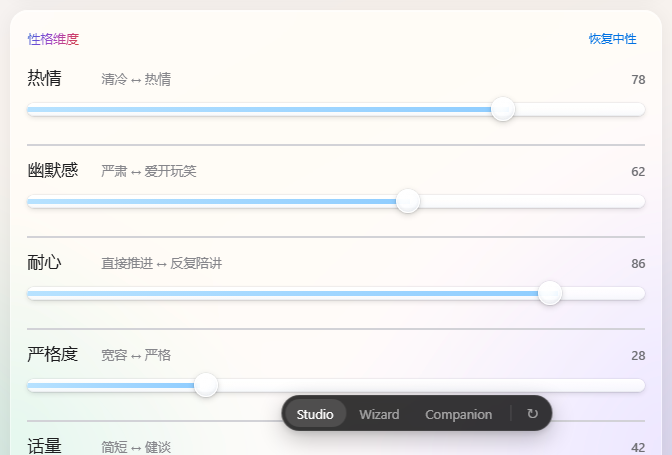
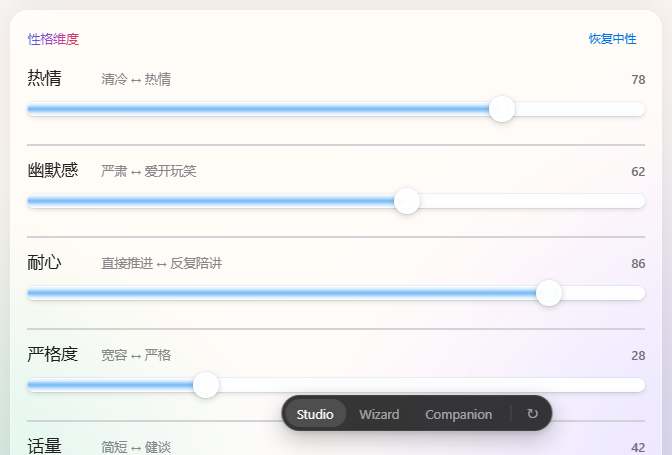
style(proto): 滑条 v3 — 蓝色从管壁向中心渗透，上下对称
v2 的填充是用横向渐变画的，只有左右方向的变化，
所以是一条直板的实色条。v3 换技术：

- 宽度改由 background-size 控制（到 --pct 为止）
- 颜色改走【垂直】渐变：上下边缘淡、中心深、完全对称
- 叠两层：外层光晕(12px,淡) + 内层核心(8px,深)，
  形成从玻璃壁往里渗的效果

胶囊体本身也改成上下对称（#fafcff -> #fff -> #fafcff），
凸起感改由外圈 0.5px 描边 + 下方投影承担，
不再靠内部上亮下暗 —— 否则管体本身就不对称。

拇指改为同心径向高光（circle at 50% 50%）+ 内圈 2px 白环。

知识点进度条同步：16px 胶囊 + 6px 对称渐变细芯。
控制台零错误。

diff --git a/prototypes/Costudy-UI-原型.html b/prototypes/Costudy-UI-原型.html
@@ -1328,6 +1328,126 @@ input[type="range"]:active::-webkit-slider-thumb {
   transition: width var(--dur-modal) var(--ease-out);
 }
 /* ==========================================================
+   滑条 v3：蓝色从管壁向中心渗透，上下对称
+   v2 的问题：填充是横向渐变画出来的，只有左右变化 —— 一条死板的实色条。
+   v3 换成：
+     · 宽度由 background-size 控制（到 --pct 为止）
+     · 颜色走【垂直】渐变：上下边缘淡，中心深，完全对称
+     · 叠两层：外层光晕（淡、宽）+ 内层核心（深、窄），像从玻璃壁往里渗
+   ========================================================== */
+input[type="range"] {
+  height: 34px;
+}
+
+input[type="range"]::-webkit-slider-runnable-track {
+  height: 14px;
+  border-radius: var(--r-full);
+  background-image:
+    /* ① 内层核心：窄，颜色最深，上下对称 */
+    linear-gradient(
+      180deg,
+      rgba(206, 234, 255, 0.9) 0%,
+      rgba(120, 184, 246, 1) 50%,
+      rgba(206, 234, 255, 0.9) 100%
+    ),
+    /* ② 外层光晕：更宽更淡，从玻璃壁往里渗的那一圈 */
+    linear-gradient(
+      180deg,
+      rgba(214, 238, 255, 0.42) 0%,
+      rgba(160, 208, 250, 0.62) 50%,
+      rgba(214, 238, 255, 0.42) 100%
+    ),
+    /* ③ 胶囊玻璃体：上下对称，不再上亮下暗 */
+    linear-gradient(
+      180deg,
+      #fafcff 0%,
+      #ffffff 50%,
+      #fafcff 100%
+    );
+  /* 前两层只铺到 --pct，第三层铺满 */
+  background-size:
+    var(--pct, 50%) 8px,
+    var(--pct, 50%) 12px,
+    100% 100%;
+  background-position:
+    0 50%,
+    0 50%,
+    0 0;
+  background-repeat: no-repeat;
+  /* 凸起靠外圈与投影，不再靠内部上亮下暗 —— 保证管体本身上下对称 */
+  box-shadow:
+    0 0 0 0.5px rgba(120, 128, 148, 0.16),
+    inset 0 0 0 0.5px rgba(255, 255, 255, 0.9),
+    0 2px 5px rgba(0, 0, 0, 0.1),
+    0 1px 1px rgba(0, 0, 0, 0.05);
+}
+
+input[type="range"]::-webkit-slider-thumb {
+  width: 26px;
+  height: 26px;
+  margin-top: -6px;
+  border-radius: 50%;
+  background:
+    radial-gradient(
+      circle at 50% 50%,
+      rgba(255, 255, 255, 1) 0%,
+      rgba(255, 255, 255, 0.95) 40%,
+      rgba(244, 249, 255, 0.98) 100%
+    );
+  border: 0.5px solid rgba(255, 255, 255, 0.95);
+  box-shadow:
+    0 0 0 0.5px rgba(120, 128, 148, 0.14),
+    inset 0 0 0 2px rgba(255, 255, 255, 0.85),
+    0 2px 7px rgba(0, 0, 0, 0.16),
+    0 1px 2px rgba(0, 0, 0, 0.08);
+  transition: transform var(--dur-press) var(--ease-out);
+}
+input[type="range"]:active::-webkit-slider-thumb {
+  transform: scale(1.05);
+}
+
+/* 知识点进度条：同样的渗透 + 对称 */
+.bar,
+.v-wiz .bar,
+.v-comp .bar,
+.v-studio .bar {
+  position: relative;
+  height: 16px;
+  border-radius: var(--r-full);
+  background-image: linear-gradient(
+    180deg,
+    #fafcff 0%,
+    #ffffff 50%,
+    #fafcff 100%
+  );
+  box-shadow:
+    0 0 0 0.5px rgba(120, 128, 148, 0.16),
+    inset 0 0 0 0.5px rgba(255, 255, 255, 0.9),
+    0 2px 5px rgba(0, 0, 0, 0.1);
+  overflow: hidden;
+}
+
+.bar > i,
+.v-wiz .bar > i,
+.v-comp .bar > i,
+.v-studio .bar > i {
+  position: absolute;
+  top: 50%;
+  left: 0;
+  transform: translateY(-50%);
+  display: block;
+  height: 6px;
+  border-radius: var(--r-full);
+  /* 上下对称：边缘淡，中心深 */
+  background-image: linear-gradient(
+    180deg,
+    rgba(206, 234, 255, 0.92) 0%,
+    rgba(122, 186, 247, 1) 50%,
+    rgba(206, 234, 255, 0.92) 100%
+  );
+  transition: width var(--dur-modal) var(--ease-out);
+}
+/* ==========================================================
    大背景透明层
    外壳（html/body/#stage/.app）不铺任何底色 —— 只剩材质。
    玻璃后面是什么，由 data-backdrop 决定：

diff --git a/prototypes/costudy-ui/liquid-glass.css b/prototypes/costudy-ui/liquid-glass.css
@@ -528,3 +528,123 @@ input[type="range"]:active::-webkit-slider-thumb {
   box-shadow: inset 0 1px 0 rgba(255, 255, 255, 0.75);
   transition: width var(--dur-modal) var(--ease-out);
 }
+/* ==========================================================
+   滑条 v3：蓝色从管壁向中心渗透，上下对称
+   v2 的问题：填充是横向渐变画出来的，只有左右变化 —— 一条死板的实色条。
+   v3 换成：
+     · 宽度由 background-size 控制（到 --pct 为止）
+     · 颜色走【垂直】渐变：上下边缘淡，中心深，完全对称
+     · 叠两层：外层光晕（淡、宽）+ 内层核心（深、窄），像从玻璃壁往里渗
+   ========================================================== */
+input[type="range"] {
+  height: 34px;
+}
+
+input[type="range"]::-webkit-slider-runnable-track {
+  height: 14px;
+  border-radius: var(--r-full);
+  background-image:
+    /* ① 内层核心：窄，颜色最深，上下对称 */
+    linear-gradient(
+      180deg,
+      rgba(206, 234, 255, 0.9) 0%,
+      rgba(120, 184, 246, 1) 50%,
+      rgba(206, 234, 255, 0.9) 100%
+    ),
+    /* ② 外层光晕：更宽更淡，从玻璃壁往里渗的那一圈 */
+    linear-gradient(
+      180deg,
+      rgba(214, 238, 255, 0.42) 0%,
+      rgba(160, 208, 250, 0.62) 50%,
+      rgba(214, 238, 255, 0.42) 100%
+    ),
+    /* ③ 胶囊玻璃体：上下对称，不再上亮下暗 */
+    linear-gradient(
+      180deg,
+      #fafcff 0%,
+      #ffffff 50%,
+      #fafcff 100%
+    );
+  /* 前两层只铺到 --pct，第三层铺满 */
+  background-size:
+    var(--pct, 50%) 8px,
+    var(--pct, 50%) 12px,
+    100% 100%;
+  background-position:
+    0 50%,
+    0 50%,
+    0 0;
+  background-repeat: no-repeat;
+  /* 凸起靠外圈与投影，不再靠内部上亮下暗 —— 保证管体本身上下对称 */
+  box-shadow:
+    0 0 0 0.5px rgba(120, 128, 148, 0.16),
+    inset 0 0 0 0.5px rgba(255, 255, 255, 0.9),
+    0 2px 5px rgba(0, 0, 0, 0.1),
+    0 1px 1px rgba(0, 0, 0, 0.05);
+}
+
+input[type="range"]::-webkit-slider-thumb {
+  width: 26px;
+  height: 26px;
+  margin-top: -6px;
+  border-radius: 50%;
+  background:
+    radial-gradient(
+      circle at 50% 50%,
+      rgba(255, 255, 255, 1) 0%,
+      rgba(255, 255, 255, 0.95) 40%,
+      rgba(244, 249, 255, 0.98) 100%
+    );
+  border: 0.5px solid rgba(255, 255, 255, 0.95);
+  box-shadow:
+    0 0 0 0.5px rgba(120, 128, 148, 0.14),
+    inset 0 0 0 2px rgba(255, 255, 255, 0.85),
+    0 2px 7px rgba(0, 0, 0, 0.16),
+    0 1px 2px rgba(0, 0, 0, 0.08);
+  transition: transform var(--dur-press) var(--ease-out);
+}
+input[type="range"]:active::-webkit-slider-thumb {
+  transform: scale(1.05);
+}
+
+/* 知识点进度条：同样的渗透 + 对称 */
+.bar,
+.v-wiz .bar,
+.v-comp .bar,
+.v-studio .bar {
+  position: relative;
+  height: 16px;
+  border-radius: var(--r-full);
+  background-image: linear-gradient(
+    180deg,
+    #fafcff 0%,
+    #ffffff 50%,
+    #fafcff 100%
+  );
+  box-shadow:
+    0 0 0 0.5px rgba(120, 128, 148, 0.16),
+    inset 0 0 0 0.5px rgba(255, 255, 255, 0.9),
+    0 2px 5px rgba(0, 0, 0, 0.1);
+  overflow: hidden;
+}
+
+.bar > i,
+.v-wiz .bar > i,
+.v-comp .bar > i,
+.v-studio .bar > i {
+  position: absolute;
+  top: 50%;
+  left: 0;
+  transform: translateY(-50%);
+  display: block;
+  height: 6px;
+  border-radius: var(--r-full);
+  /* 上下对称：边缘淡，中心深 */
+  background-image: linear-gradient(
+    180deg,
+    rgba(206, 234, 255, 0.92) 0%,
+    rgba(122, 186, 247, 1) 50%,
+    rgba(206, 234, 255, 0.92) 100%
+  );
+  transition: width var(--dur-modal) var(--ease-out);
+}
